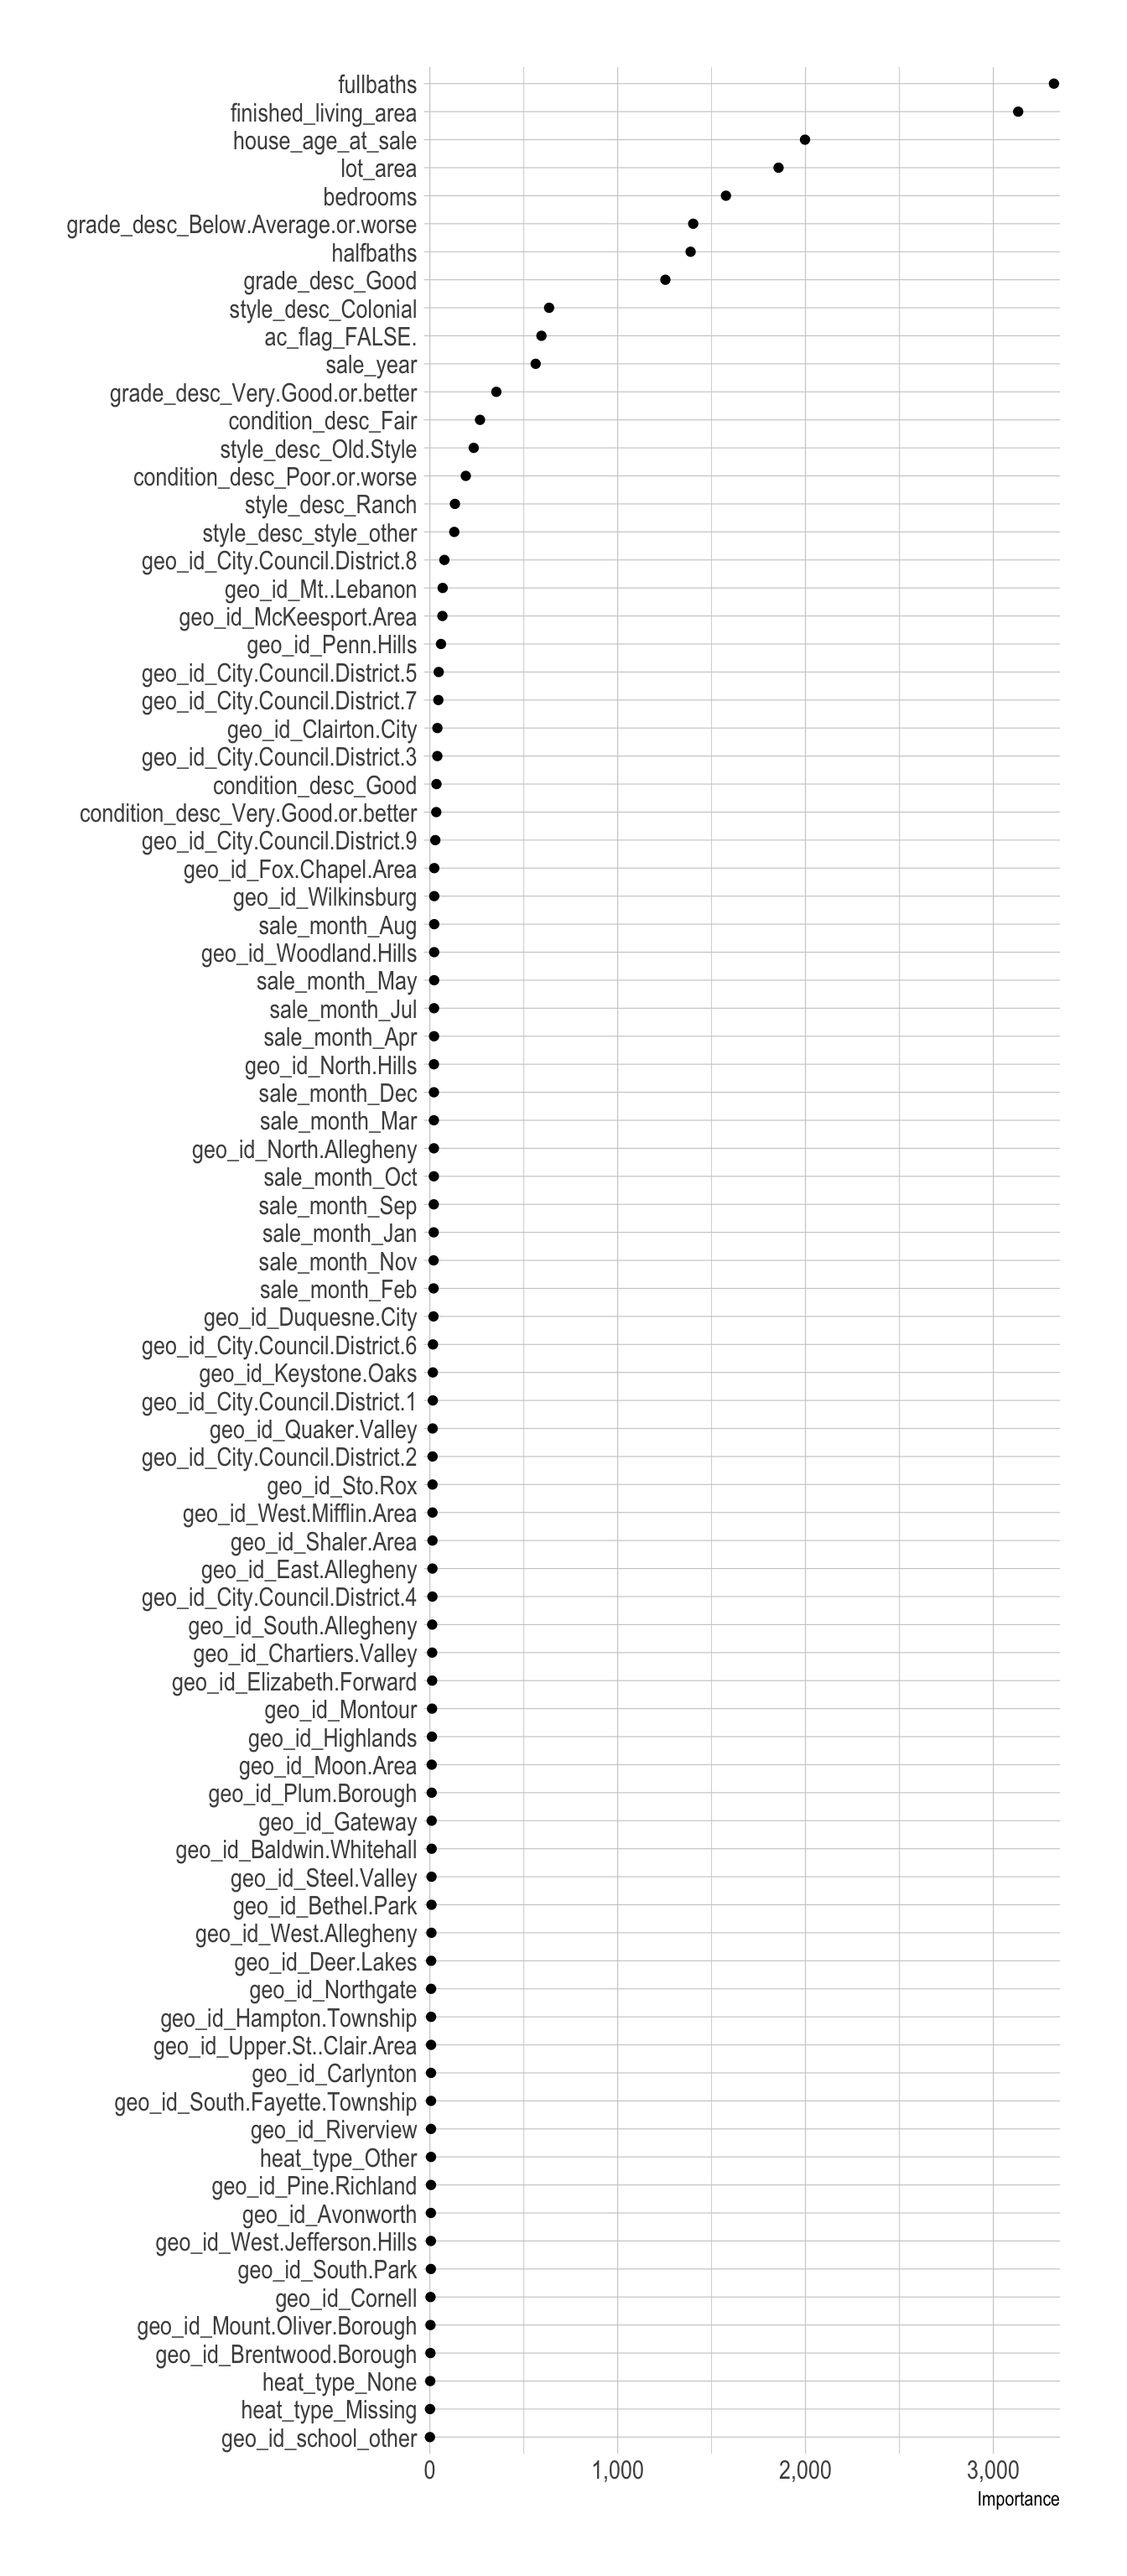
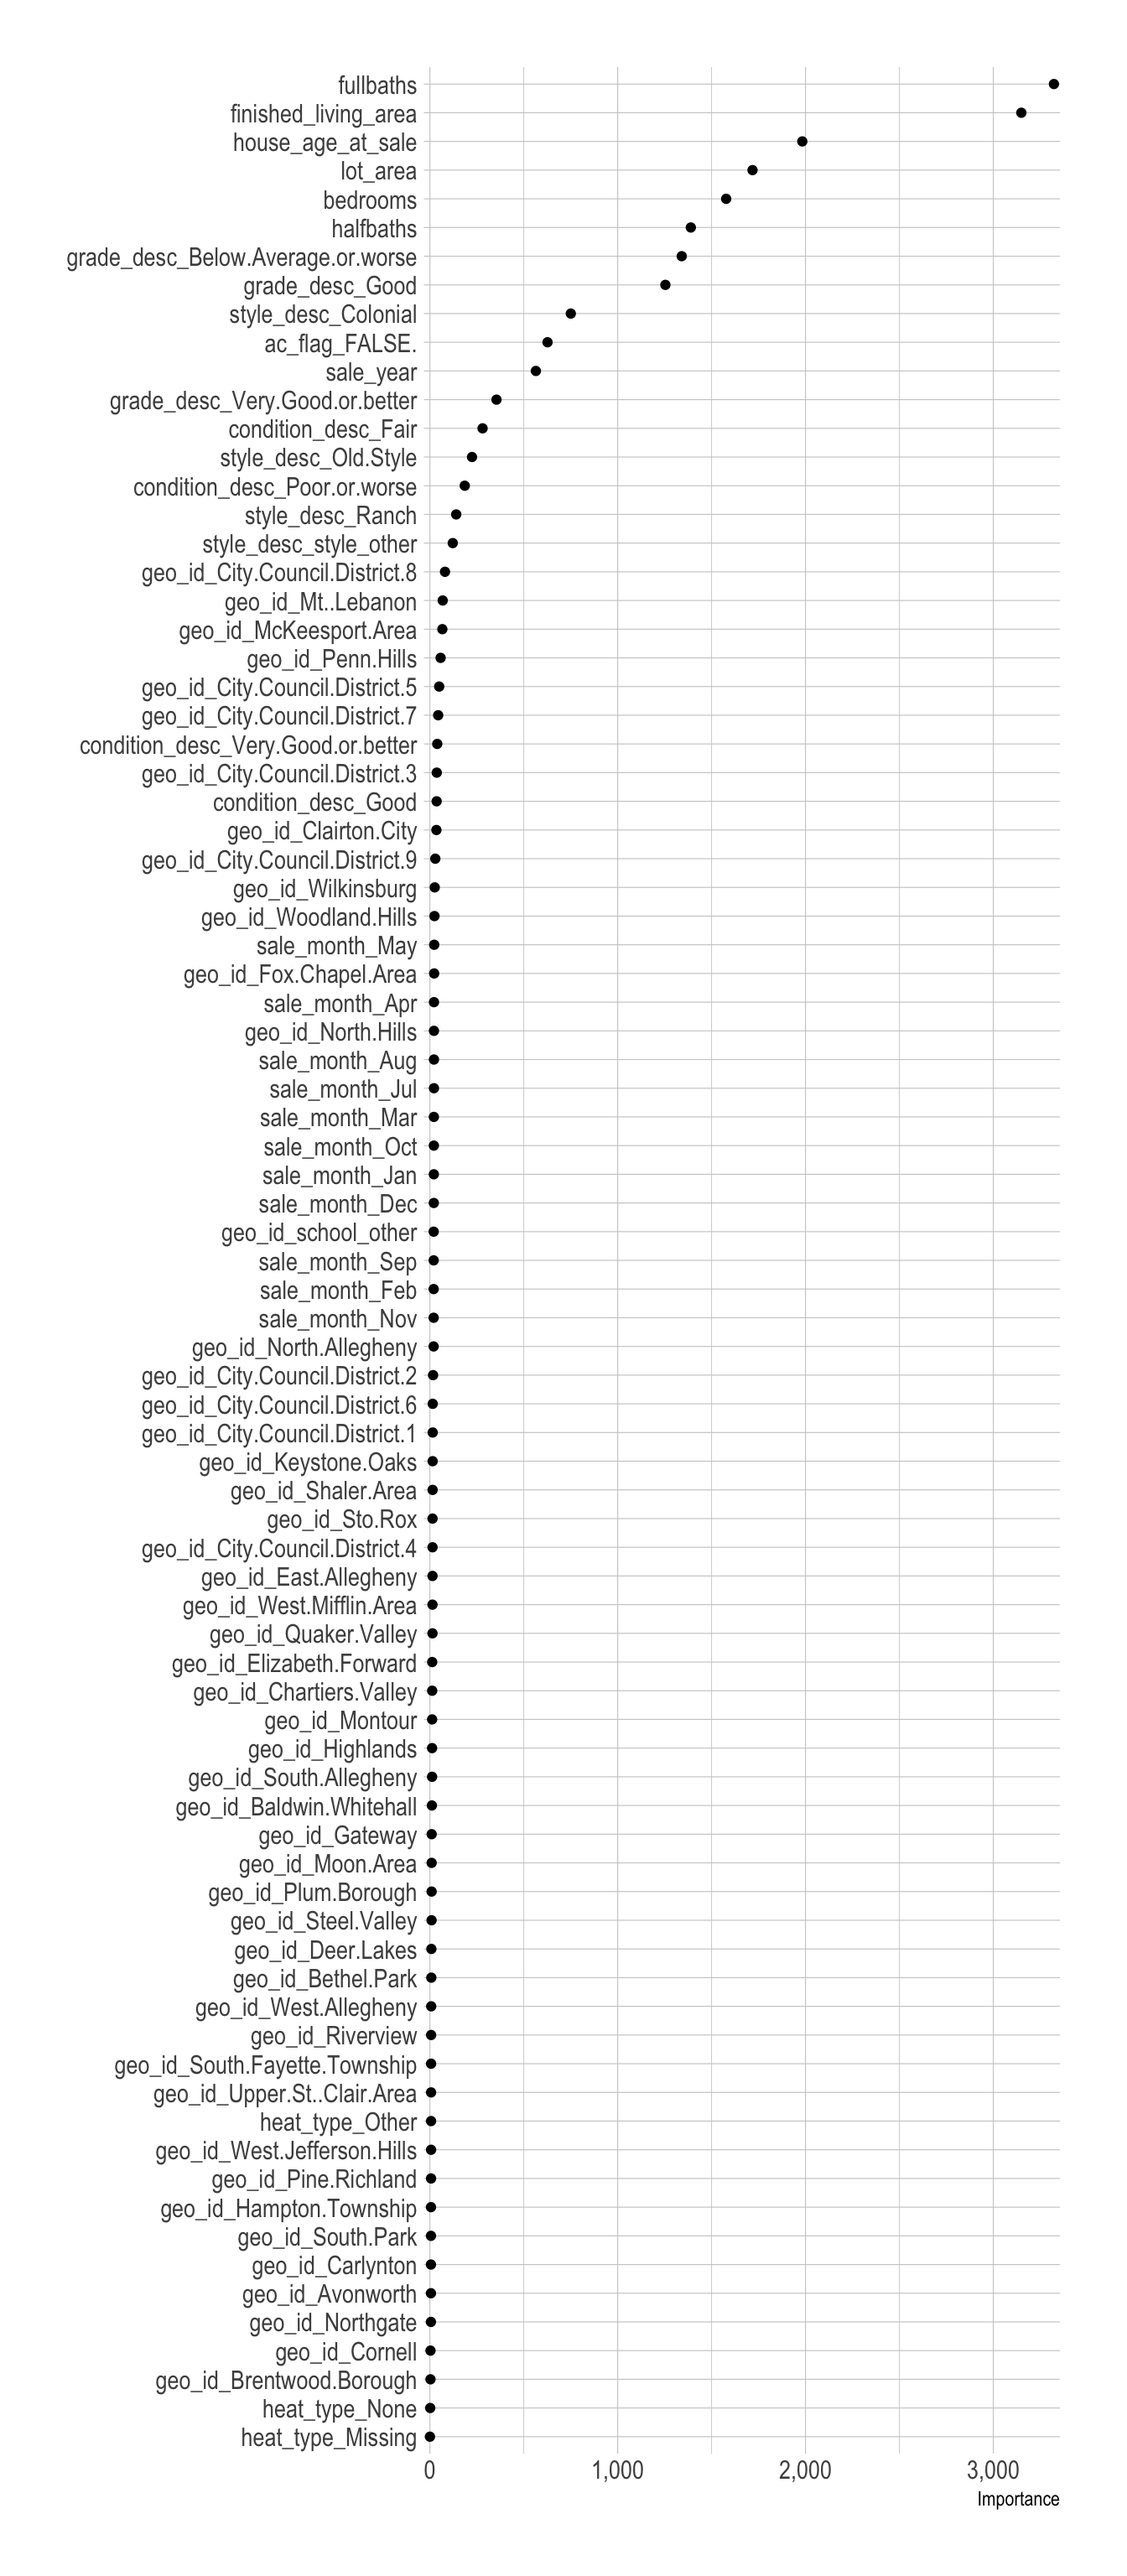
updated data from v.03 of model

Changed region(s): [[0.0938, 0.0312, 0.9375, 0.9688], [0.5625, 0.0625, 0.7188, 0.125], [0.4375, 0.0938, 0.5312, 0.1562]]

diff --git a/content/post/house_price_estimator/index.html b/content/post/house_price_estimator/index.html
@@ -65,9 +65,9 @@ projects: []
 <pre><code>## # A tibble: 3 x 2
 ##   .metric .estimate
 ##   &lt;chr&gt;       &lt;dbl&gt;
-## 1 rmse    63666.   
-## 2 rsq         0.820
-## 3 mape       27.6</code></pre>
+## 1 rmse    54470.   
+## 2 rsq         0.870
+## 3 mape       22.2</code></pre>
 </div>
 <div id="observed-vs.-predicted-full-dataset" class="section level2">
 <h2>Observed vs. Predicted (full dataset)</h2>
